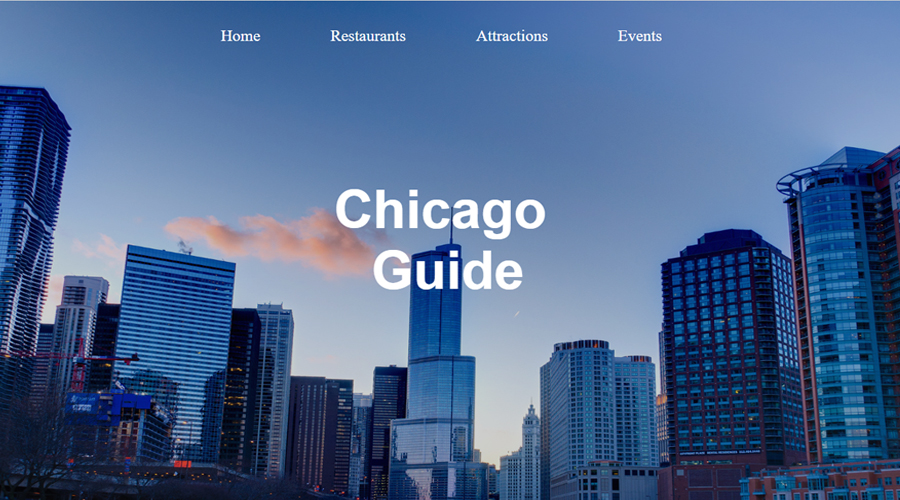
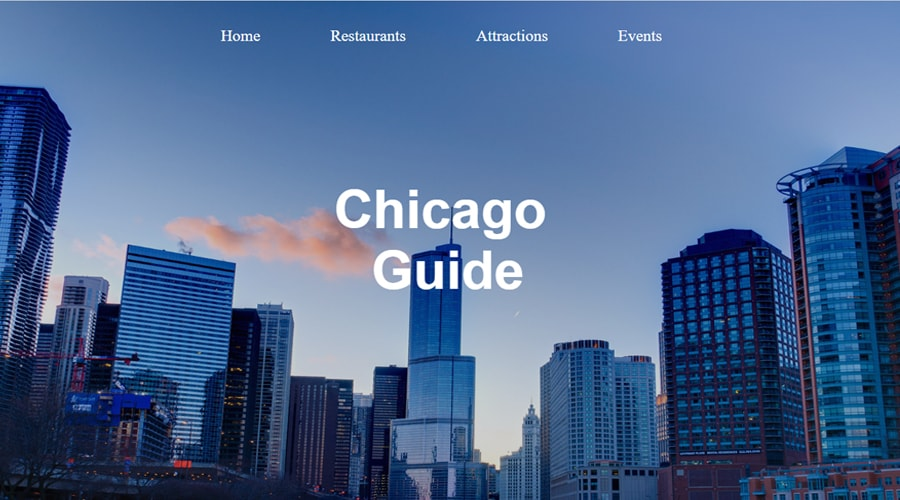
optimized images

diff --git a/index.html b/index.html
@@ -51,9 +51,8 @@
 
 			  	<div id="main-wrap">
 			  		<div id="text-left">
-						<p>I have beeen teaching myself Web development since March 2016<br>I first started with books by Jon Duckett and then moved onto using 
-						FreeCodeCamp.  <br>I graduated from DePaul University with a Bachelors in Business Management in 2012.<br> I currently work full time in the accounting department, but have been learning web development right after work. <br><br>
-							On my free time other than learning about web development, I like to produce electronic music, work out at the gym, Brazilian jiu-jitsu, play guitar, and oil paint. <br> Currently I am familiar with using HTML, CSS/SASS, Javascript, jQuery, Vue, and Bootstrap. <br> As well as basic knowledge of using Adobe Photoshop and Illustrator.
+						<p>I have beeen teaching myself Web development since March 2016<br>I started with books by Jon Duckett and then moved onto using FreeCodeCamp.  <br>I graduated from DePaul University with a Bachelors in Business Management in 2012.<br> I currently work full time in the accounting department, but have been teaching myself web development after work. <br><br>
+							On my free time other than learning about web development, I like to produce electronic music, work out at the gym, Brazilian jiu-jitsu, play guitar, and oil paint. <br> Currently I am familiar with using HTML, CSS/SASS, Javascript, jQuery, Vue, Bootstrap and Photoshop.  
 							
 						</p>
 

diff --git a/css/chicago.css b/css/chicago.css
@@ -403,7 +403,7 @@ span.textLeft {
   height: 90vh;
   margin-bottom: 30px;
   margin-top: 50px;
-  background-image: url("../chimage/backimage.jpg");
+  background-image: url("../chimage/backimage2.jpg");
   background-size: 100% 90vh;
   background-repeat: no-repeat; }
 
@@ -411,7 +411,7 @@ span.textLeft {
   height: 90vh;
   margin-bottom: 30px;
   margin-top: 50px;
-  background-image: url("../chimage/backimage.jpg");
+  background-image: url("../chimage/community.jpg");
   background-size: 100% 90vh;
   background-repeat: no-repeat; }
 
@@ -559,7 +559,10 @@ span.textLeft {
 
   h1.title {
     top: 10%; } }
-@media screen and (max-width: 768px) {
+@media screen and (max-width: 375px) {
+  .hero .pics {
+    height: 70vh; }
+
   #cat1, #cat2, #cat3, #cat4 {
     display: block;
     max-width: 100%; }
@@ -636,6 +639,6 @@ span.textLeft {
     display: none; }
 
   footer {
-    height: 40vh; } }
+    height: 50vh; } }
 
 /*# sourceMappingURL=chicago.css.map */

diff --git a/css/chicago.sass b/css/chicago.sass
@@ -442,7 +442,7 @@ span.textLeft
   height: 90vh
   margin-bottom: 30px
   margin-top: 50px
-  background-image: url("../chimage/backimage.jpg")
+  background-image: url("../chimage/backimage2.jpg")
   background-size: 100% 90vh
   background-repeat: no-repeat
 
@@ -451,7 +451,7 @@ span.textLeft
   height: 90vh
   margin-bottom: 30px
   margin-top: 50px
-  background-image: url("../chimage/backimage.jpg")
+  background-image: url("../chimage/community.jpg")
   background-size: 100% 90vh
   background-repeat: no-repeat
   
@@ -618,7 +618,12 @@ span.textLeft
     top: 10%
 
      
-@media screen and (max-width: 768px)
+@media screen and (max-width: 375px)
+  
+  .hero 
+    .pics
+      height: 70vh
+
   #cat1, #cat2, #cat3, #cat4
     display: block
     max-width: 100%
@@ -696,7 +701,7 @@ span.textLeft
     display: none
 
   footer
-    height: 40vh
+    height: 50vh
    
 
 

diff --git a/attractions.html b/attractions.html
@@ -304,7 +304,7 @@
 				  <ul class="footer-options">
 				    <li>
 				      <h4 class="footer-header">CHICAGO GUIDE</h4></li>
-				    <li><a href='#about1' class="footer-link" >ABOUT</a></li>
+				    <li><a href='#aboutChi' class="footer-link" >ABOUT</a></li>
 				    <li><a href="attractions.html" class="footer-link">ATTRACTIONS</a></li>
 				    <li><a href="events.html" class="footer-link" >EVENTS</a></li>
 				    <li><a href="restaurants.html" class="footer-link" >RESTAURANTS</a></li>

diff --git a/chicago.html b/chicago.html
@@ -104,7 +104,7 @@
 				  <ul class="footer-options">
 				    <li>
 				      <h4 class="footer-header">CHICAGO GUIDE</h4></li>
-				    <li><a href='#about1' class="footer-link" >ABOUT</a></li>
+				    <li><a href='#aboutChi' class="footer-link" >ABOUT</a></li>
 				    <li><a href="attractions.html" class="footer-link">ATTRACTIONS</a></li>
 				    <li><a href="events.html" class="footer-link" >EVENTS</a></li>
 				    <li><a href="restaurants.html" class="footer-link" >RESTAURANTS</a></li>

diff --git a/events.html b/events.html
@@ -301,7 +301,7 @@
 				  <ul class="footer-options">
 				    <li>
 				      <h4 class="footer-header">CHICAGO GUIDE</h4></li>
-				    <li><a href='#about1' class="footer-link" >ABOUT</a></li>
+				    <li><a href='#aboutChi' class="footer-link" >ABOUT</a></li>
 				    <li><a href="attractions.html" class="footer-link">ATTRACTIONS</a></li>
 				    <li><a href="events.html" class="footer-link" >EVENTS</a></li>
 				    <li><a href="restaurants.html" class="footer-link" >RESTAURANTS</a></li>

diff --git a/restaurants.html b/restaurants.html
@@ -301,7 +301,7 @@
 				  <ul class="footer-options">
 				    <li>
 				      <h4 class="footer-header">CHICAGO GUIDE</h4></li>
-				    <li><a href='#about1' class="footer-link" >ABOUT</a></li>
+				    <li><a href='#aboutChi' class="footer-link" >ABOUT</a></li>
 				    <li><a href="attractions.html" class="footer-link">ATTRACTIONS</a></li>
 				    <li><a href="events.html" class="footer-link" >EVENTS</a></li>
 				    <li><a href="restaurants.html" class="footer-link" >RESTAURANTS</a></li>
